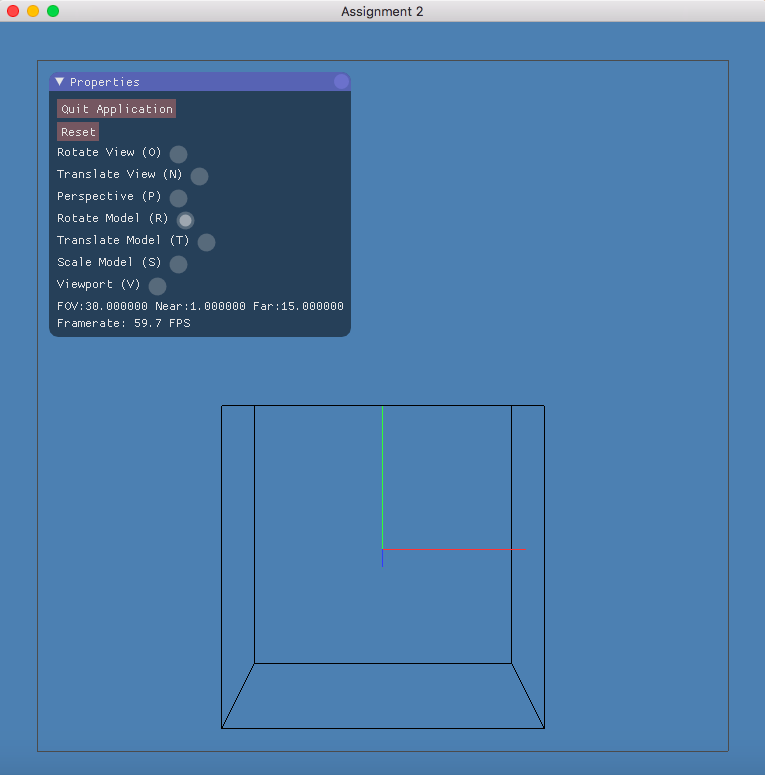
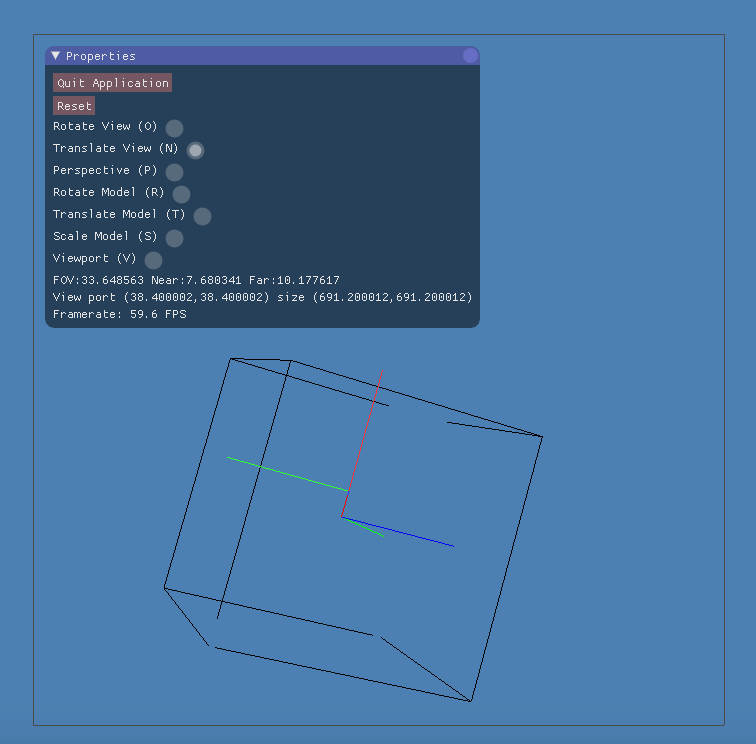
Changed all values to matrices, improved viewport mode

diff --git a/A2/A2.cpp b/A2/A2.cpp
@@ -51,8 +51,7 @@ Line::Line(vec4 a, vec4 b, LineData* data)
 //----------------------------------------------------------------------------------------
 // Constructor
 A2::A2()
-	: m_currentLineColour(vec3(0.0f)),
-      show_detailed(false)
+	: m_currentLineColour(vec3(0.0f))
 {
     for (int i = 0; i < 3; i++) {
         trackDragging[i] = false;
@@ -195,13 +194,13 @@ void A2::initDrawModel() {
 }
 
 void A2::initTransformation() {
-    model_rotation = vec3(0, 0, 0);
-    model_translation = vec3(0, 0, 0);
-    model_scale = vec3(1, 1, 1);
+    model_rotation = makeRotationMatrix(vec3(0, 0, 0));
+    model_translation = makeTranslationMatrix(vec3(0, 0, 0));
+    model_scale = makeScaleMatrix(vec3(1, 1, 1));
 
     // View
-    view_rotation = vec3(0, 0, 0);
-    view_translation = vec3(0, 1, 9);
+    view_rotation = makeRotationMatrix(vec3(0, 0, 0));
+    view_translation = makeTranslationMatrix(vec3(0, 1, 9));
     perspective = vec3(30.0f, 1.0f, 15.0f);
 
     // Viewport
@@ -346,23 +345,14 @@ void A2::appLogic()
         translated_points.push_back(vec4(p, 1));
     }
 
-    // Construct scale matrix
-    mat4 local_scale_mat = transpose(mat4(
-        model_scale.x, 0, 0, 0,
-        0, model_scale.y, 0, 0,
-        0, 0, model_scale.z, 0,
-        0, 0, 0, 1
-    ));
 
     // Apply scale to box points
     for (int i = 0; i < 8; i++) {
-        translated_points[i] = local_scale_mat * translated_points[i];
+        translated_points[i] = model_scale * translated_points[i];
     }
 
     // Construct translation and rotation matrices
-    mat4 local_trans_mat = makeTranslationMatrix(model_translation);
-    mat4 local_rotation_mat = makeRotationMatrix(model_rotation);
-    mat4 local_trans_rot_mat = local_trans_mat * local_rotation_mat;
+    mat4 local_trans_rot_mat = model_translation * model_rotation;
 
     // Apply local rotation/translation to cube points and local coord
     for (int i = 0; i < 12; i ++) {
@@ -370,9 +360,7 @@ void A2::appLogic()
     }
 
     // World to camera
-    mat4 view_trans_mat = makeTranslationMatrix(view_translation);
-    mat4 view_rotation_mat = makeRotationMatrix(view_rotation);
-    mat4 camera_frame = inverse(view_trans_mat * view_rotation_mat);
+    mat4 camera_frame = inverse(view_translation * view_rotation);
 
 
     // Apply view change to all points
@@ -514,15 +502,6 @@ void A2::guiLogic()
         ImGui::EndGroup();
 
         ImGui::Text("FOV:%f Near:%f Far:%f", perspective.x, perspective.y, perspective.z);
-        if (show_detailed) {
-            ImGui::Text("View rotation %f %f %f", view_rotation.x, view_rotation.y, view_rotation.z);
-            ImGui::Text("View translation %f %f %f",  view_translation.x, view_translation.y, view_translation.z);
-            ImGui::Text("Model rotation %f %f %f", model_rotation.x, model_rotation.y, model_rotation.z);
-            ImGui::Text("Model translation %f %f %f", model_translation.x, model_translation.y, model_translation.z);
-            ImGui::Text("Model scale %f %f %f", model_scale.x, model_scale.y, model_scale.z);
-            ImGui::Text("View port (%f,%f) size (%f,%f)", view_port_origin.x, view_port_origin.y, view_port_size.x, view_port_size.y);
-        }
-
 
 		ImGui::Text( "Framerate: %.1f FPS", ImGui::GetIO().Framerate );
 
@@ -618,16 +597,19 @@ bool A2::mouseMoveEvent (
                 if (this->lastMouseX[i] == -1) {
                     if (interaction_mode == 6 && i == 0) {
                         // Set the origin on first click
-                        view_port_origin = vec2(xPos, yPos);
-                        view_port_size = vec2(0, 0);
+                        view_port_corner = vec2(xPos, yPos);
                     }
                 } else {
                     float delta = (xPos - this->lastMouseX[i]) / 5;
 
                     if (interaction_mode == 0) { // O
-                        view_rotation[i] = cClamp(view_rotation[i], delta, 0, 2 * PI);
+                        vec3 v;
+                        v[i] = cClamp(0, delta, 0, 2 * PI);
+                        view_rotation = view_rotation * makeRotationMatrix(v);
                     } else if (interaction_mode == 1) { // N
-                        view_translation[i] += delta;
+                        vec3 v;
+                        v[i] = delta;
+                        view_translation = makeTranslationMatrix(mat3(view_rotation) * v) * view_translation;
                     } else if (interaction_mode == 2) { // P
                         if (i == 0) { // Left
                             perspective[0] = cClamp(perspective[0], delta, 5, 160, false);
@@ -637,27 +619,29 @@ bool A2::mouseMoveEvent (
                             perspective[2] = cClamp(perspective[2], delta, perspective[1], 30, false);
                         }
                     } else if (interaction_mode == 3) { // R
-                        model_rotation[i] = cClamp(model_rotation[i], delta, 0, 2 * PI);
-                    } else if (interaction_mode == 4) { // T
-                        mat3 local_rot_mat = mat3(makeRotationMatrix(model_rotation));
                         vec3 v;
                         v[i] = delta;
-                        model_translation += local_rot_mat * v;
+                        model_rotation = makeRotationMatrix(v) * model_rotation;
+                    } else if (interaction_mode == 4) { // T
+                        vec3 v;
+                        v[i] = delta;
+                        model_translation = makeTranslationMatrix(mat3(model_rotation) * v) * model_translation;
                     } else if (interaction_mode == 5) { // S
-                        model_scale[i] += delta;
+                        model_scale[i][i] += delta;
                     } else if (interaction_mode == 6) { // V
                         if (i == 0) { // L
                             // clamp xPos and yPos
                             int cx = glm::clamp((int)xPos, 0, screen_width);
                             int cy = glm::clamp((int)yPos, 0, screen_height);
 
-                            if (cx > view_port_origin.x && cy > view_port_origin.y) {
-                                view_port_size = vec2(
-                                    cx - view_port_origin.x,
-                                    cy - view_port_origin.y
-                                );
-                            }
-
+                            view_port_origin = vec2(
+                                min(view_port_corner.x, cx),
+                                min(view_port_corner.y, cy)
+                            );
+                            view_port_size = vec2(
+                                abs(cx - view_port_corner.x),
+                                abs(cy - view_port_corner.y)
+                            );
                         }
                     }
                 }
@@ -814,11 +798,6 @@ bool A2::keyInputEvent (
             glfwSetWindowShouldClose(m_window, GL_TRUE);
             eventHandled = true;
         }
-
-        if (key == GLFW_KEY_D) {
-            show_detailed = !show_detailed;
-            eventHandled = true;
-        }
     }
 
 	return eventHandled;
@@ -953,4 +932,22 @@ glm::vec2 A2::viewPortToGLCoord(
         (v.x / screen_width) * 2 - 1,
         -1 * ((v.y / screen_height) * 2 - 1)
     );
+}
+
+glm::mat4 A2::makeScaleMatrix(glm::vec3 xyz) {
+    // Construct scale matrix
+    return transpose(mat4(
+        xyz.x, 0, 0, 0,
+        0, xyz.y, 0, 0,
+        0, 0, xyz.z, 0,
+        0, 0, 0, 1
+    ));
+}
+
+inline int min(int a, int b) {
+    return a > b ? b : a;
+}
+
+inline int abs(int a) {
+    return a > 0 ? a : -1 * a;
 }

diff --git a/A2/A2.hpp b/A2/A2.hpp
@@ -96,6 +96,7 @@ protected:
 
     float cClamp(float orig, float delta, float min, float max, bool cycle=true);
 
+    glm::mat4 makeScaleMatrix(glm::vec3 xyz);
     glm::mat4 makeRotationMatrix(glm::vec3 xyz);
     glm::mat4 makeTranslationMatrix(glm::vec3 xyz);
     glm::mat4 makeProjectionMatrix(float fov, float n, float f);
@@ -113,18 +114,19 @@ protected:
 
 
     // Local
-    glm::vec3 model_rotation;
-    glm::vec3 model_translation;
-    glm::vec3 model_scale;
+    glm::mat4 model_rotation;
+    glm::mat4 model_translation;
+    glm::mat4 model_scale;
 
     // View
-    glm::vec3 view_rotation;
-    glm::vec3 view_translation;
+    glm::mat4 view_rotation;
+    glm::mat4 view_translation;
     glm::vec3 perspective; // fov, near, far
 
     // Viewport
     glm::vec2 view_port_origin;
     glm::vec2 view_port_size; // width, height
+    glm::vec2 view_port_corner;
 
     // Drawing informations
     std::vector<glm::vec3> points;
@@ -136,7 +138,9 @@ protected:
 
     bool trackDragging[3];
     float lastMouseX[3];
-
-    bool show_detailed;
-
 };
+
+
+inline int min(int a, int b);
+inline int abs(int a);
+
